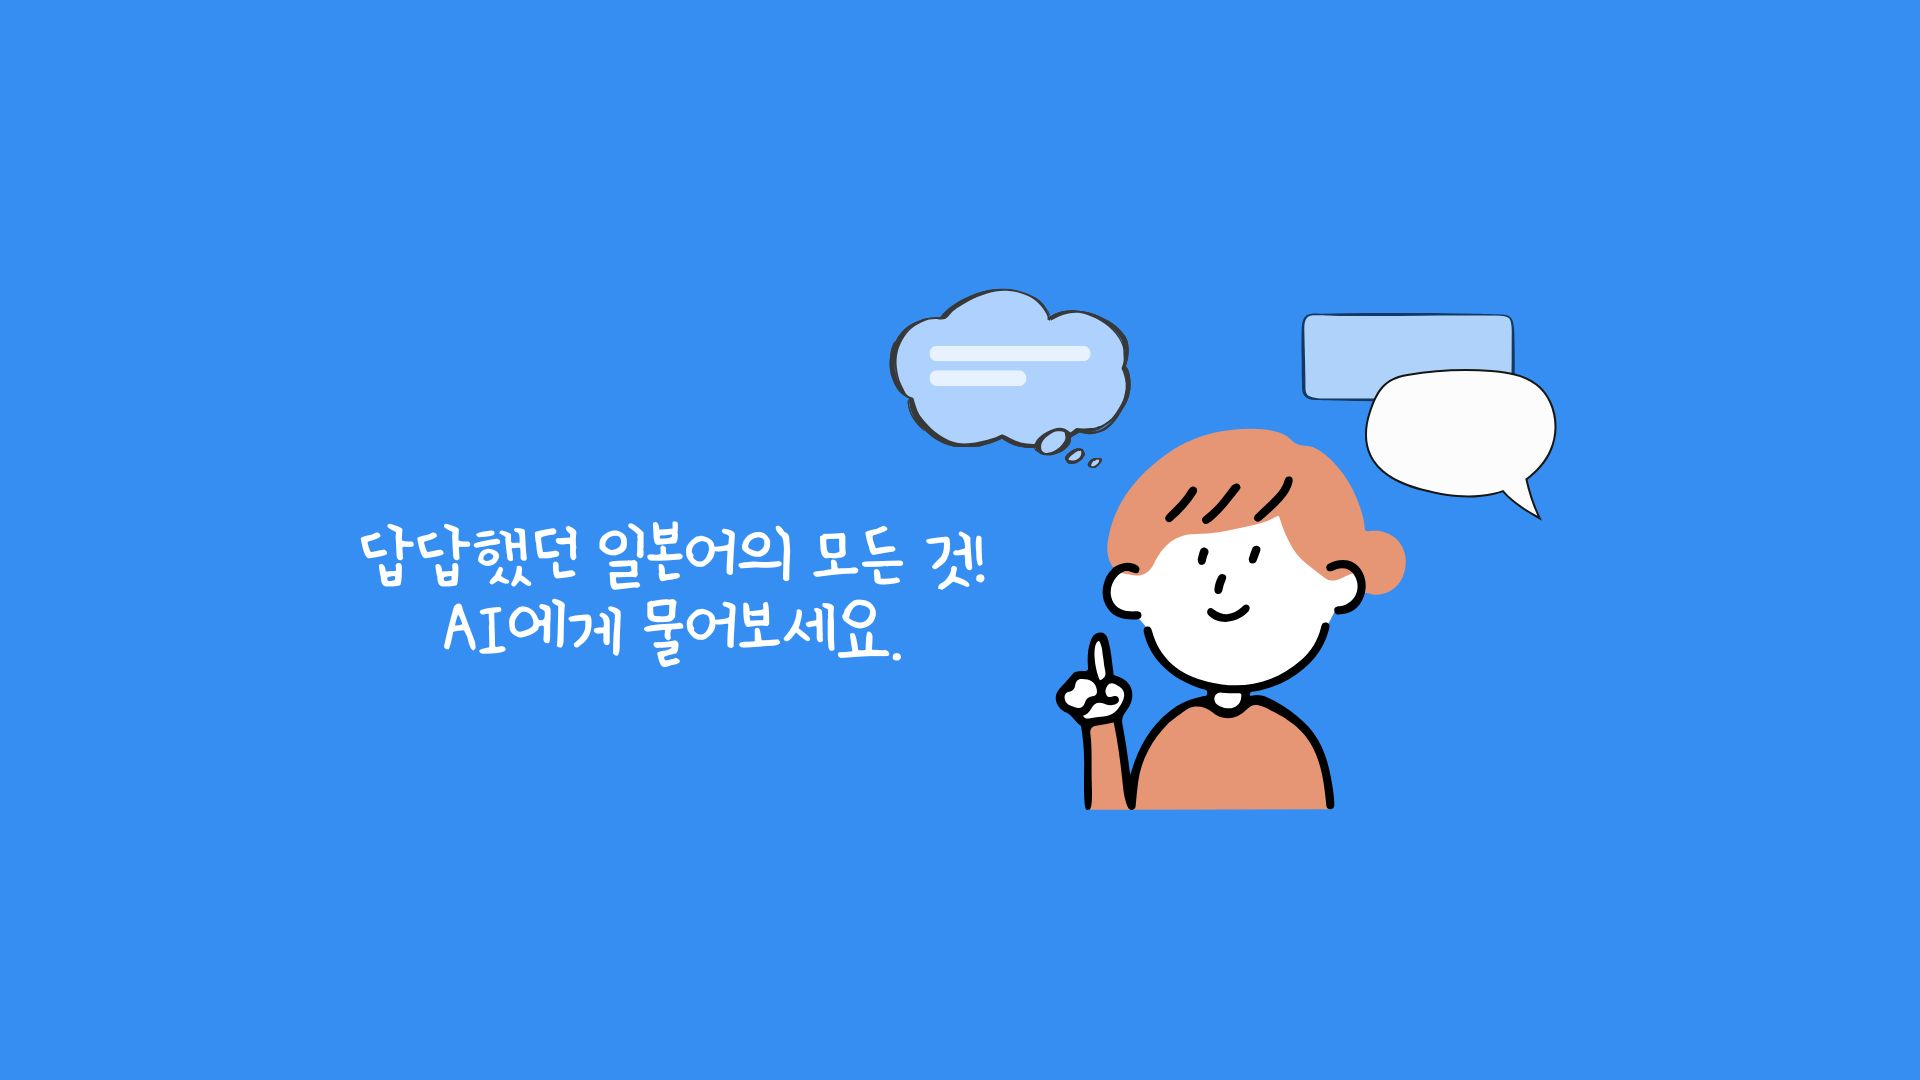
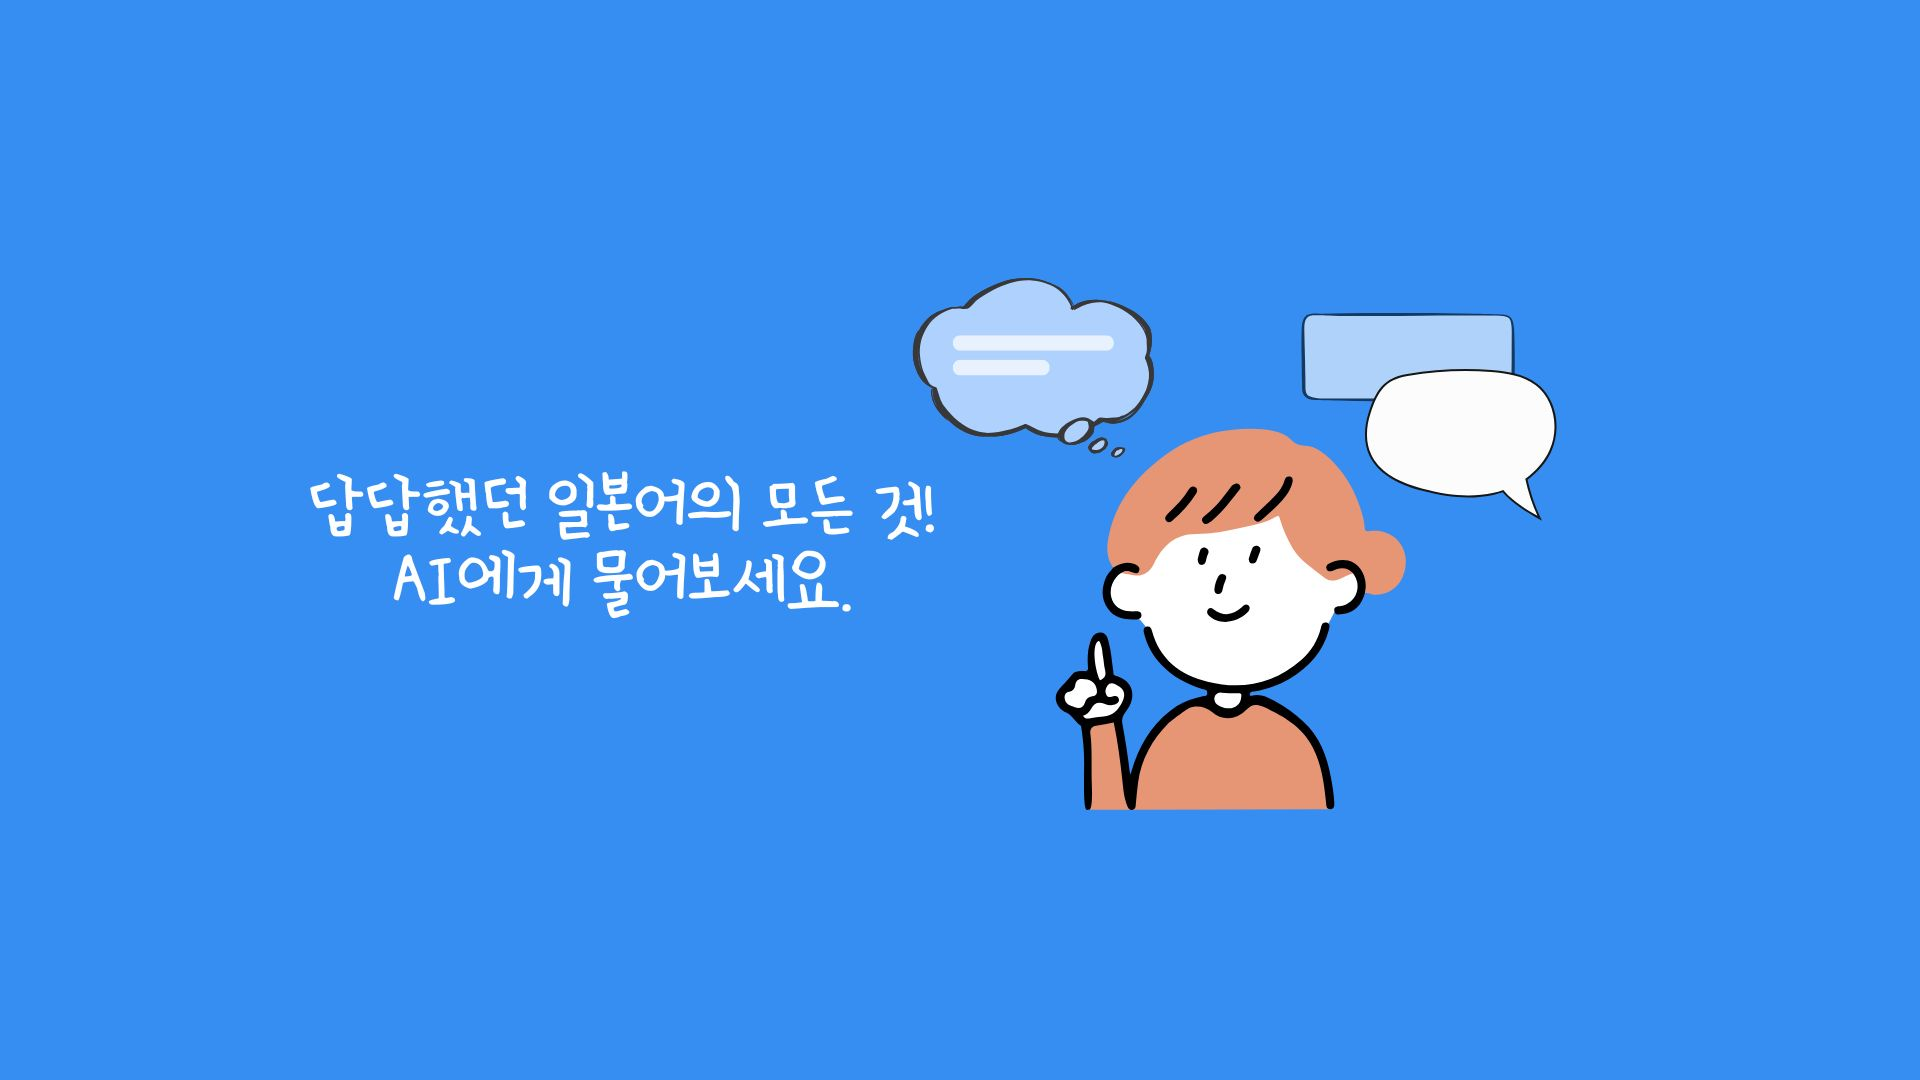
feat : MainPage swiper 이미지 제작 완료

Changed region(s): [[0.1562, 0.2444, 0.625, 0.6111]]

diff --git a/src/main/front/src/component/swiper/MainSwiper.jsx b/src/main/front/src/component/swiper/MainSwiper.jsx
@@ -9,6 +9,7 @@ import 'swiper/css/navigation';
 import '../../styles/component/swiper/MainSwiper.css';
 
 import mainImage1 from '../../image/main/swiper_image1.jpg';
+import mainImage2 from '../../image/main/swiper_image2.jpg';
 
 
 // import required modules
@@ -25,8 +26,7 @@ export default function MainSwiper() {
             >
 
                 <SwiperSlide><img src={mainImage1}/></SwiperSlide>
-                <SwiperSlide>Slide 2</SwiperSlide>
-                <SwiperSlide>Slide 3</SwiperSlide>
+                <SwiperSlide><img src={mainImage2}/></SwiperSlide>
             </Swiper>
         </>
     );
